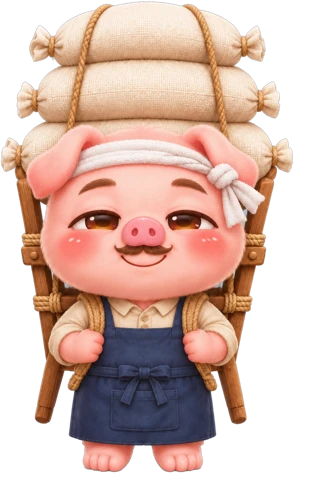
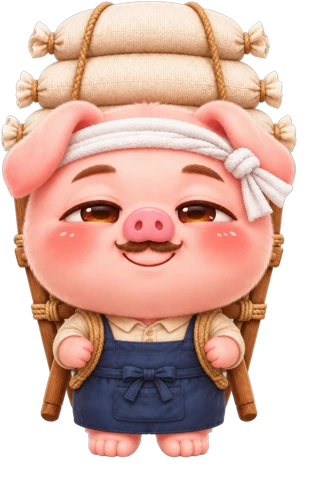
벼 도매상 복돈이: 머리 크고 통통하게 다시 그림(카피랜드 동물 비율), 의자에 앉은 동물보다 앞에
Claude-Session: https://claude.ai/code/session_015t7mweLLBzEFYGgsGmysr6

diff --git a/js/social.js b/js/social.js
@@ -1402,7 +1402,7 @@ export function mount(el, ctx) {
   const rbSlots = d => { let x = (d * 2654435761) >>> 0; const r = () => { x = (x * 1664525 + 1013904223) >>> 0; return x / 4294967296; }; return [0, 1, 2].map(k => d * 86400000 - 9 * 3600000 + (9 + k * 5 + r() * 4.5) * 3600000); }; /* 하루를 셋으로 나눠 9~13.5시 · 14~18.5시 · 19~23.5시 사이 한 번씩 */
   const rbNow = t => { if (RB_TEST) return { from: rbNow.t0 || (rbNow.t0 = t), to: (rbNow.t0 || t) + RB_MS }; const d = Math.floor((t + 9 * 3600000) / 86400000); for (const st of rbSlots(d)) if (t >= st && t < st + RB_MS) return { from: st, to: st + RB_MS }; return null; };
   let rbEl = null, rbSay = null, rbOn = null, rbIv = 0;
-  function riceBuyerAt(x, world) { if (rbIv) clearInterval(rbIv); rbOn = null; rbEl = h('button', { class: 'so-ricepig', 'aria-label': '벼 도매상', style: { left: x + 'px', display: 'none' }, onClick: () => riceBuyerOpen() }, h('img', { src: 'img/fl/rice-pig.webp?v=1', alt: '' }), h('b', null, '🌾 벼 도매상 복돈이')); rbSay = h('span', { class: 'so-rpsay', hidden: true }); rbEl.append(rbSay); world.append(rbEl);
+  function riceBuyerAt(x, world) { if (rbIv) clearInterval(rbIv); rbOn = null; rbEl = h('button', { class: 'so-ricepig', 'aria-label': '벼 도매상', style: { left: x + 'px', display: 'none' }, onClick: () => riceBuyerOpen() }, h('img', { src: 'img/fl/rice-pig.webp?v=2', alt: '' }), h('b', null, '🌾 벼 도매상 복돈이')); rbSay = h('span', { class: 'so-rpsay', hidden: true }); rbEl.append(rbSay); world.append(rbEl);
     const tick = () => { if (!alive) return clearInterval(rbIv); const now = Date.now(), w = rbNow(now); if (w && !rbOn) { rbOn = w; rbEl.style.display = ''; sfx('fanfare'); toast(`🌾 벼 도매상 복돈이 아저씨가 카피백반 앞에 왔어요! 핫똑 곡식을 ${RB_X}배 값에 사요 · ${Math.ceil((w.to - now) / 60000)}분 뒤에 떠나요, 서두르세요!`, 5200); rbTalk('벼 사요~ 핫똑 벼 비싸게 사요~! 카피랜드엔 벼가 없어서 말이여!'); }
       else if (!w && rbOn) { rbOn = null; rbEl.style.display = 'none'; document.querySelectorAll('.so-rbm').forEach(e => e.closest('.modal-wrap') && e.closest('.modal-wrap').remove()); toast('🌾 벼 도매상 아저씨가 떠났어요', 2400); }
       else if (rbOn && rbSay.hidden && Math.random() < 0.3) rbTalk(['벼 사요~ 핫똑 벼 사요~!', '서른 단 채워 오면 비행기삯도 얹어 주지!', '곧 떠나요~ 팔 벼 있으면 서둘러요!', '카피랜드엔 벼가 귀해서 비싸게 쳐 주는 거여!', '어이구 허리야… 쌀가마가 무겁구먼.', '자광도 있으면 웃돈 주지! 허허', '흥정은 없어요~ 값은 딱 1.5배!', '수수료는 서른 단에 3,300원뿐이여!'][Math.floor(Math.random() * 8)]); };
@@ -1412,15 +1412,15 @@ export function mount(el, ctx) {
     try { m = await import('./hotddok.js'); const v = trial ? null : await ctx.store.get('hd/' + ctx.uid); hd = v && v.s ? JSON.parse(v.s) : null; } catch (e) { hd = null; }
     if (RB_TEST && !hd) hd = { bag: { rice: { grain: { 'jagwang|A': 12, 'heukjo|S': 8, 'bori|B': 10 } } } }; /* 시험 링크: 예시 곡식 */
     const g = (hd && hd.bag && hd.bag.rice && hd.bag.rice.grain) || {}, list = Object.entries(g).filter(([k, n]) => n > 0 && m && m.hdGrainInfo(k));
-    if (!list.length) return modal({ title: '🌾 벼 도매상 복돈이', body: h('div', { class: 'ap-cnt so-rbm' }, h('img', { src: 'img/fl/rice-pig.webp?v=1', alt: '', class: 'so-rbimg' }), h('p', null, '“카피랜드엔 벼가 귀해서 비싸게 쳐 주는디… 가방에 핫똑 곡식이 없구먼!”'), h('p', { class: 'ap-cnt-n' }, `핫똑랜드 논에서 거둔 곡식을 가방에 넣어 오세요(카피랜드로는 ${RB_FULL}단까지 가져올 수 있어요)`)), actions: [{ label: '닫기' }] });
+    if (!list.length) return modal({ title: '🌾 벼 도매상 복돈이', body: h('div', { class: 'ap-cnt so-rbm' }, h('img', { src: 'img/fl/rice-pig.webp?v=2', alt: '', class: 'so-rbimg' }), h('p', null, '“카피랜드엔 벼가 귀해서 비싸게 쳐 주는디… 가방에 핫똑 곡식이 없구먼!”'), h('p', { class: 'ap-cnt-n' }, `핫똑랜드 논에서 거둔 곡식을 가방에 넣어 오세요(카피랜드로는 ${RB_FULL}단까지 가져올 수 있어요)`)), actions: [{ label: '닫기' }] });
     const unit = k => Math.round(m.hdGrainP(k) * RB_X), pick = Object.fromEntries(list.map(([k, n]) => [k, n])), body = h('div', { class: 'so-list so-rbm' }), foot = h('div', { class: 'so-rbsum' }); let cl;
     const calc = () => { const n = list.reduce((a, [k]) => a + pick[k], 0), base = list.reduce((a, [k]) => a + unit(k) * pick[k], 0), fee = Math.round(RB_FEE * n / RB_FULL), air = Math.round(RB_AIR * Math.min(n, RB_FULL) / RB_FULL) + Math.round(RB_AIR * Math.max(0, n - RB_FULL) / RB_FULL); return { n, base, fee, air, net: base - fee + air }; };
-    const draw = () => { const c = calc(); body.replaceChildren(h('div', { class: 'ap-cnt' }, h('img', { src: 'img/fl/rice-pig.webp?v=1', alt: '', class: 'so-rbimg' }), h('p', null, `“핫똑 벼라면 핫똑랜드 값의 ${RB_X}배로 쳐 주지! 서른 단 채우면 비행기삯 ${won(RB_AIR)}코인도 얹어 주고, 수수료는 서른 단에 ${won(RB_FEE)}코인만 받어.”`)),
+    const draw = () => { const c = calc(); body.replaceChildren(h('div', { class: 'ap-cnt' }, h('img', { src: 'img/fl/rice-pig.webp?v=2', alt: '', class: 'so-rbimg' }), h('p', null, `“핫똑 벼라면 핫똑랜드 값의 ${RB_X}배로 쳐 주지! 서른 단 채우면 비행기삯 ${won(RB_AIR)}코인도 얹어 주고, 수수료는 서른 단에 ${won(RB_FEE)}코인만 받어.”`)),
         ...list.map(([k, n]) => { const inf = m.hdGrainInfo(k), st = d => () => { pick[k] = Math.max(0, Math.min(n, pick[k] + d)); draw(); }; return h('div', { class: 'so-row so-rbrow' + (pick[k] ? ' on' : '') }, h('img', { src: inf.img, alt: '', class: 'so-rbic' }), h('b', null, `${inf.name} ${inf.g}등급 · 가진 것 ${n}단`), h('small', null, `한 단 ${won(unit(k))}코인 (핫똑 ${won(m.hdGrainP(k))}의 ${RB_X}배)`), h('div', { class: 'so-rbstep' }, h('button', { class: 'btn sm', onClick: st(-10) }, '−10'), h('button', { class: 'btn sm', onClick: st(-1) }, '−'), h('b', null, `${pick[k]}단`), h('button', { class: 'btn sm', onClick: st(1) }, '+'), h('button', { class: 'btn sm', onClick: st(10) }, '+10'))); }));
       foot.replaceChildren(h('p', null, `곡식값 ${won(c.base)} + ✈ 비행기 운임 ${won(c.air)} − 수수료 ${won(c.fee)}`), h('b', null, `${c.n}단 팔면 +${won(c.net)}코인`)); };
     const sell = async () => { const c = calc(); if (!c.n) return toast('팔 벼를 골라 주세요', 1500); if (!rbOn) return toast('도매상 아저씨가 떠났어요', 1600);
       if (!trial && !RB_TEST) { let ok = false; await ctx.store.tx('hd/' + ctx.uid, v => { if (v === null) return null; /* 아직 서버 값을 못 받았을 때: 다시 받아서 돈다 */ const d = v && v.s ? JSON.parse(v.s) : null, gg = d && d.bag && d.bag.rice && d.bag.rice.grain; if (!gg || list.some(([k]) => (gg[k] || 0) < pick[k])) return; /* 그만 둔다 */ list.forEach(([k]) => { gg[k] -= pick[k]; if (gg[k] <= 0) delete gg[k]; }); ok = true; return { ...v, s: JSON.stringify(d) }; }).catch(() => {}); if (!ok) return toast('가방 곡식이 바뀌었어요 · 다시 열어 주세요', 2000); await addCoins(c.net); }
-      sfx('coin'); cl(); rbTalk('허허, 좋은 벼구먼! 또 와요~'); modal({ title: '🌾 벼를 팔았어요', body: h('div', { class: 'ap-cnt so-rbm' }, h('img', { src: 'img/fl/rice-pig.webp?v=1', alt: '', class: 'so-rbimg' }), h('p', null, `${c.n}단 · 곡식값 ${won(c.base)} + 운임 ${won(c.air)} − 수수료 ${won(c.fee)}`), h('p', null, h('b', null, `+${won(c.net)} 🪙`)), (trial || RB_TEST) && h('p', { class: 'ap-cnt-n' }, '🧪 시험판이라 코인은 들어오지 않아요')), actions: [{ label: '확인', primary: true }] }); };
+      sfx('coin'); cl(); rbTalk('허허, 좋은 벼구먼! 또 와요~'); modal({ title: '🌾 벼를 팔았어요', body: h('div', { class: 'ap-cnt so-rbm' }, h('img', { src: 'img/fl/rice-pig.webp?v=2', alt: '', class: 'so-rbimg' }), h('p', null, `${c.n}단 · 곡식값 ${won(c.base)} + 운임 ${won(c.air)} − 수수료 ${won(c.fee)}`), h('p', null, h('b', null, `+${won(c.net)} 🪙`)), (trial || RB_TEST) && h('p', { class: 'ap-cnt-n' }, '🧪 시험판이라 코인은 들어오지 않아요')), actions: [{ label: '확인', primary: true }] }); };
     draw(); cl = modal({ title: `🌾 벼 도매상 복돈이 · ${Math.max(1, Math.ceil((rbOn.to - Date.now()) / 60000))}분 남음`, body: h('div', null, body, foot), actions: [{ label: '닫기' }, { label: '고른 벼 팔기', primary: true, onClick: () => { sell(); return false; } }] }); }
   let hdLite = null, hdPinsL = null; ctx.openCapyBag = o => openBag(o); // 핫똑랜드에서도 이 가방을 연다
 

diff --git a/css/app.css b/css/app.css
@@ -3543,7 +3543,7 @@ body.hd-resume #app { visibility: hidden; } body.hd-resume .fm.ap:not(.hd) { vis
 .hd-plab.hi { bottom: 56%; }
 
 /* 벼 도매상 복돈이(카피랜드 · 카피백반 앞) */
-.so-ricepig { position: absolute; bottom: 30%; width: 58px; margin-left: -29px; padding: 0; border: 0; background: none; display: flex; flex-direction: column; align-items: center; z-index: 3; cursor: pointer; }
+.so-ricepig { position: absolute; bottom: 30%; width: 54px; margin-left: -27px; padding: 0; border: 0; background: none; display: flex; flex-direction: column; align-items: center; z-index: 15; cursor: pointer; }
 .so-ricepig img { width: 100%; height: auto; display: block; transform-origin: 50% 100%; animation: soRpIdle 2.4s ease-in-out infinite; filter: drop-shadow(0 4px 3px rgba(0,0,0,.18)); }
 @keyframes soRpIdle { 0%, 100% { transform: rotate(0) scale(1, 1); } 25% { transform: rotate(-2deg) scale(1.01, .99); } 50% { transform: rotate(0) scale(1, 1.02); } 75% { transform: rotate(2deg) scale(1.01, .99); } }
 .so-ricepig > b { margin-top: 2px; padding: 2px 8px; border-radius: 999px; background: #FFF6D8; border: 2px solid #C9963C; color: #5A3A10; font: 800 11px/1.2 var(--head, inherit); white-space: nowrap; }
